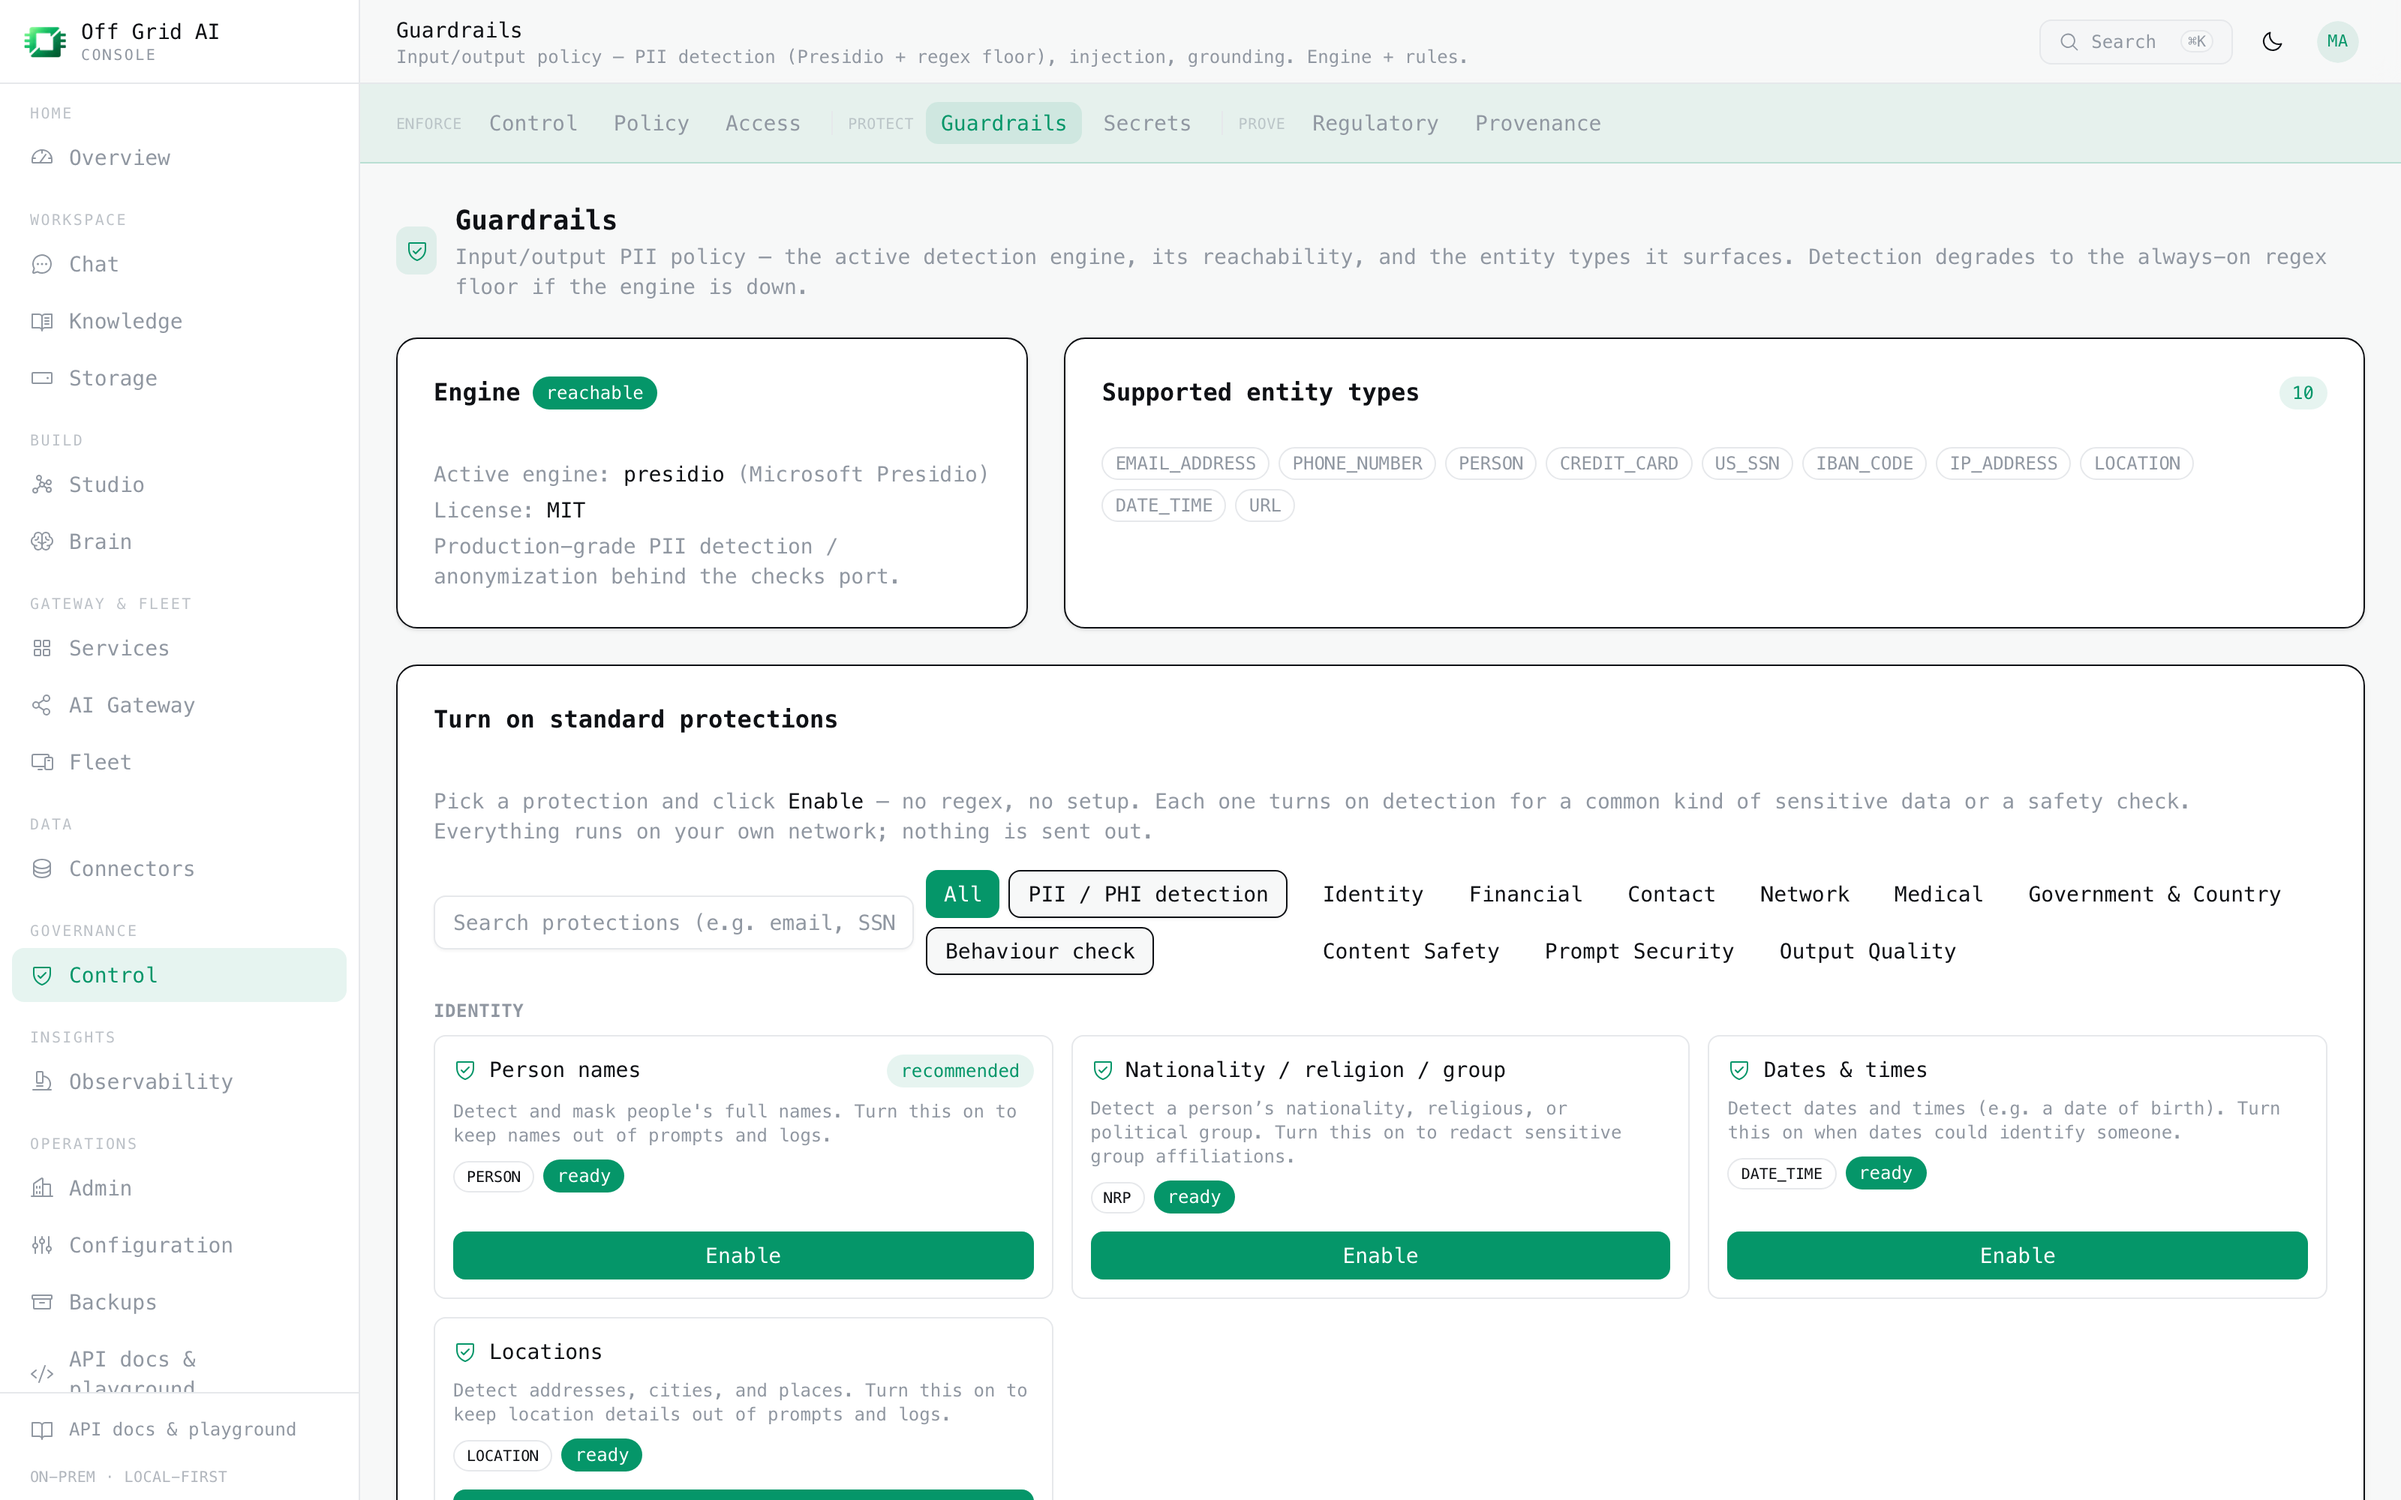
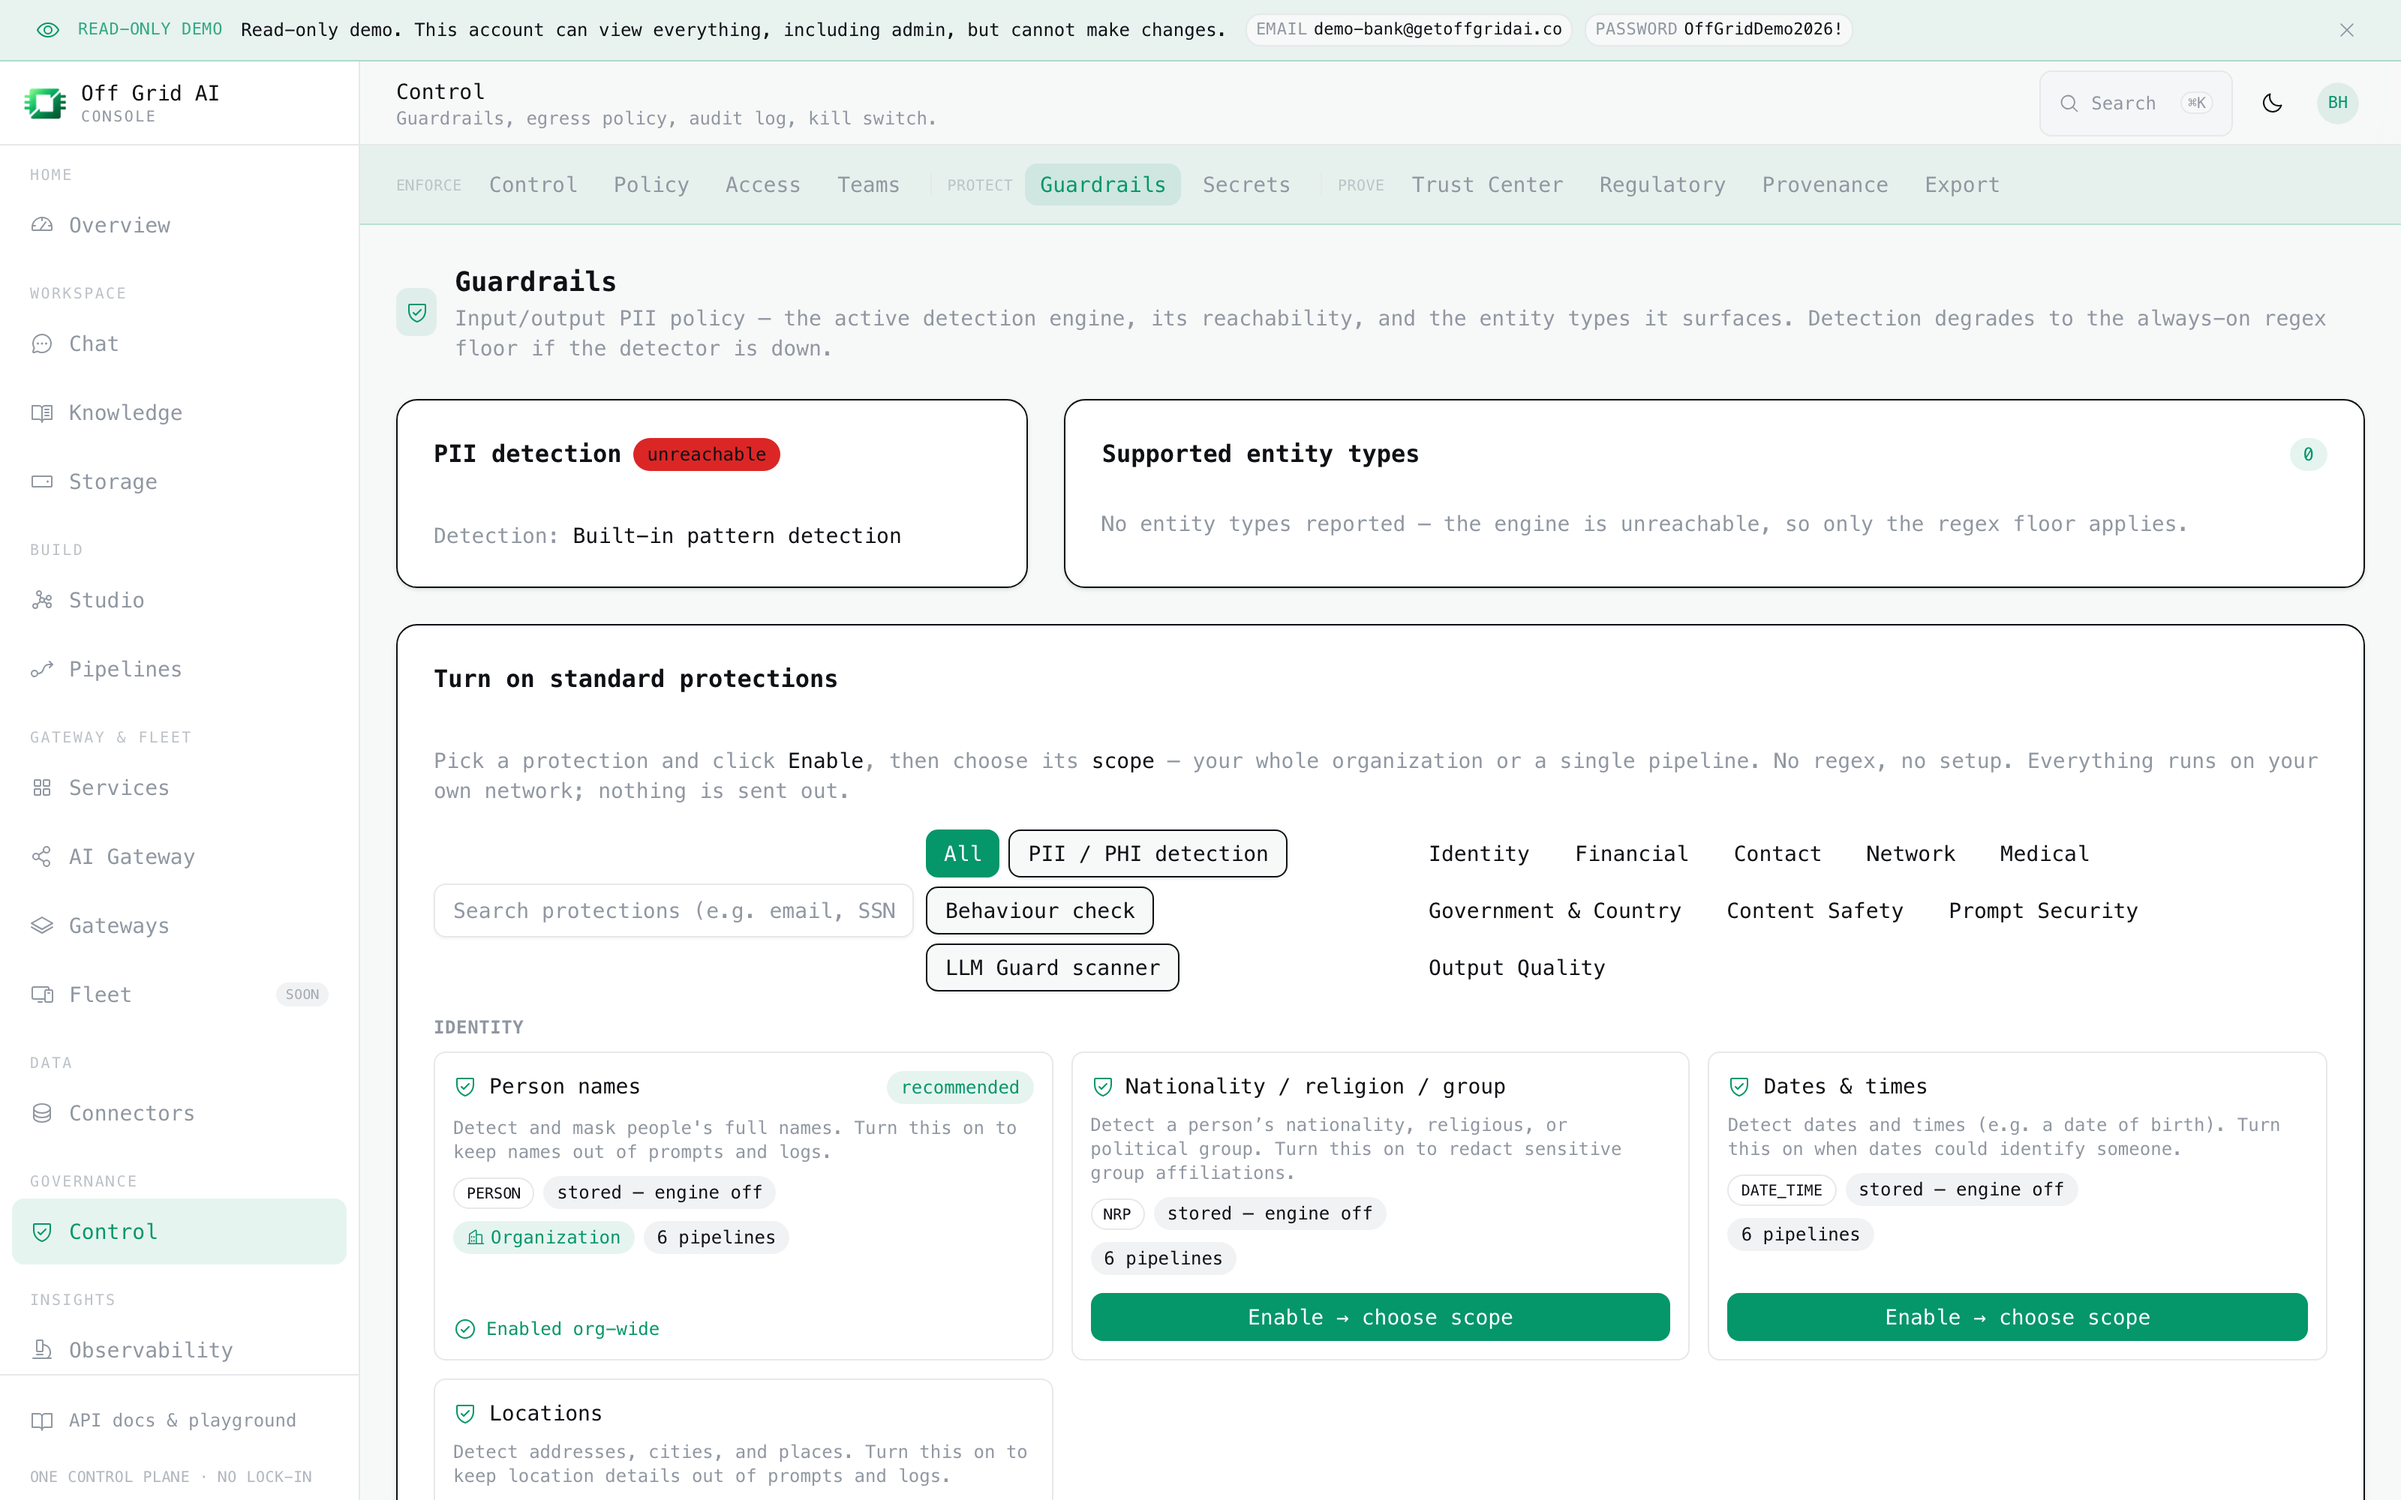
docs(screenshots): refresh 4 current-but-flagged shots + log demo gaps (#222)
overview / guardrails / retrieval / gateway captured fresh for currency but
do NOT pass the strict bar — they expose live demo defects I cannot fix by
re-capturing (read-only viewer). Logged as gaps in GAPS_BACKLOG.md:
- G-DEMO-SHOTS-1: guardrails engine DOWN + 'LLM-GUARD'/'LLM Guard' name leak
  (overview card + guardrails page) — infra + copy fix needed.
- G-DEMO-SHOTS-2: retrieval page hardcodes 'Qdrant'/'lancedb' + 0 vectors.
- G-DEMO-SHOTS-3: gateway model catalog shows seed id 'qwythos-9b'.
Images updated so refs stay current; verification blocked on the above.

diff --git a/docs/GAPS_BACKLOG.md b/docs/GAPS_BACKLOG.md
@@ -994,3 +994,36 @@ surface{RSC,API-GET,API-write} × method{GET,POST,PATCH,DELETE,PUT}. Verified LI
 - viewer × own-host × overview → own-org data only, write blocked ✓
 UNTESTED intersections logged for follow-up: bearer/service-token × tenant-host (data-plane org binding);
 no-org viewer × tenant-host (binds to default — should it be denied?); admin × cross-tenant (intended: allowed).
+
+## G-DEMO-SHOTS-1 — guardrails "engine unreachable" + "LLM Guard" label leak (blocks 3 doc screenshots)
+Found during README/docs screenshot re-shoot (#222, 2026-07-11) from the live BANK demo
+(bharatunion-onprem-console). The ML/PII guardrails engine is DOWN on the live demo, and the UI
+copy names it "LLM-GUARD" / "LLM Guard". This surfaces on THREE screenshotted surfaces:
+- `/overview` — "PII GUARDRAILS: LLM-GUARD — engine unreachable" (red card)
+- `/governance/guardrails` — "PII detection: unreachable", "the engine is unreachable, so only the
+  regex floor applies", "LLM Guard scanner" button label
+Two defects, both violating the hide-the-OSS-engine rule + the "no broken/empty state in demo" bar:
+1. INFRA: bring the guardrails engine back up on the live demo so it reads "reachable/enforcing".
+2. COPY: rename the user-facing "LLM Guard"/"LLM-GUARD" strings to a product term (e.g. "PII & content
+   guardrails") — an OSS engine name must never appear in-product.
+Impact: overview.png, guardrails.png cannot pass screenshot verification (banned name + broken state)
+until fixed. Current shots captured for freshness but marked NOT-verified.
+
+## G-DEMO-SHOTS-2 — retrieval page hardcodes "Qdrant"/"lancedb" + shows 0 vectors (blocks 1 doc screenshot)
+Found #222. `/data/retrieval` copy exposes engine names: "served by the built-in embedded store
+(lancedb)", "An external vector database (Qdrant) is optional", "OFFGRID_ADAPTER_RETRIEVAL=qdrant",
+"OFFGRID_QDRANT_URL", plus "TOTAL VECTORS: 0" (empty state). Violates the hide-the-OSS-engine rule and
+the no-empty-state bar.
+FIX: (1) rewrite copy to product terms (e.g. "on-prem vector store" — never "Qdrant/lancedb/qdrant env
+vars" in-product); (2) seed the demo retrieval store so TOTAL VECTORS > 0.
+Impact: retrieval.png cannot pass verification until fixed. Current shot captured for freshness, NOT-verified.
+
+## G-DEMO-SHOTS-3 — AI Gateway model catalog shows seed model id "qwythos-9b" (banned name)
+Found #222. `/gateway/ai` Overview/Traffic/Cloud tabs list a fleet-served model whose display id is
+"qwythos-9b" — a banned internal/OSS-flavored name. Every gateway tab either shows it (Overview/Traffic/
+Cloud) or is empty (Router "not wired" + mentions "LiteLLM Proxy"; Logs 0 matches; Tuning emptyish).
+gateway.png was captured from the Traffic tab (richest honest view) but "qwythos-9b" still appears as a
+small model label.
+FIX: rename the seed model display id from "qwythos-9b" to a real model name (e.g. its underlying
+Qwen id) in the fleet/model catalog seed; also fix the Router-tab "LiteLLM Proxy" copy to a product term.
+Impact: gateway.png shows a banned model label; NOT fully verified until the seed id is renamed.
